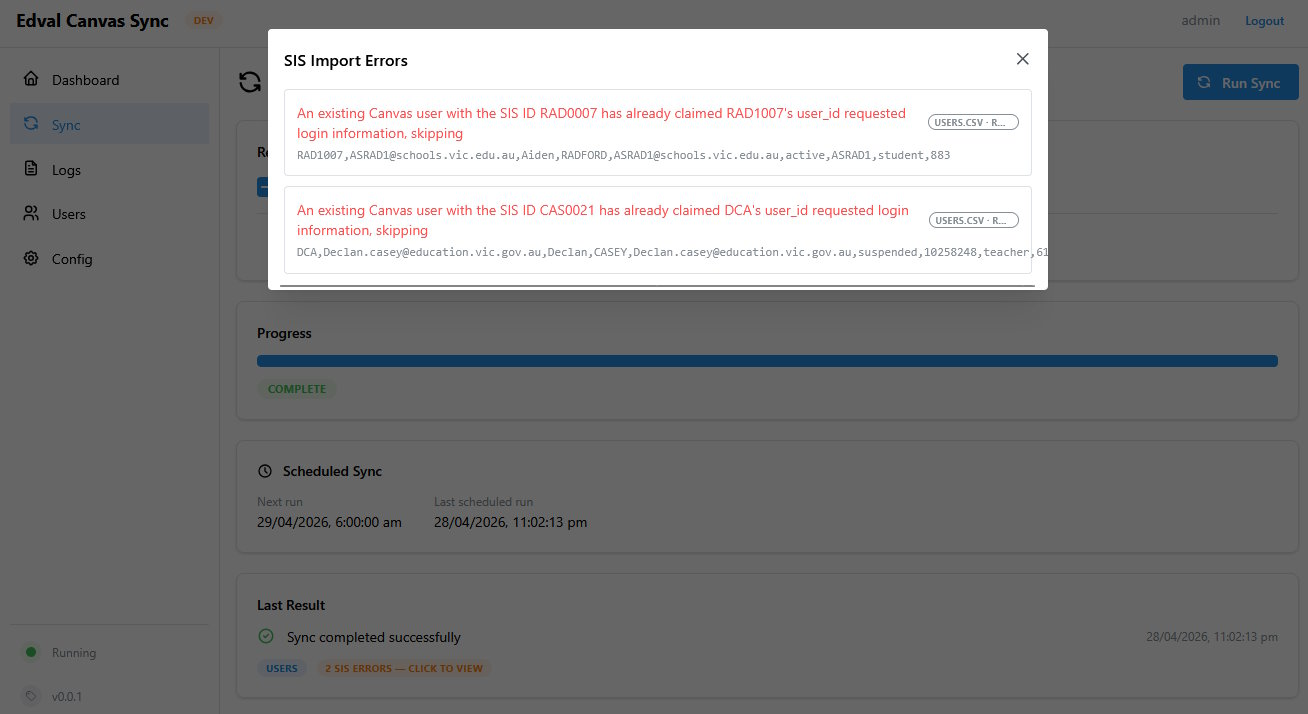
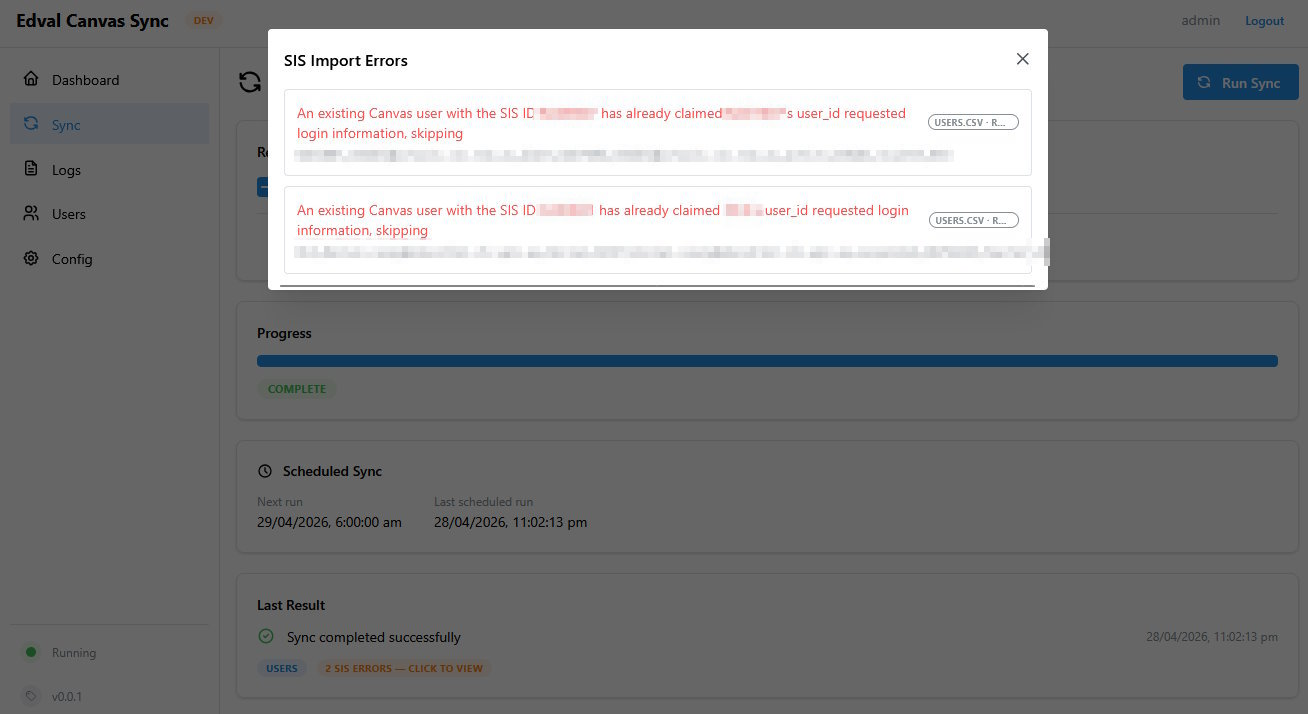
add github link to edval-canvas-bridge

diff --git a/src/content/projects/edval-canvas-bridge.md b/src/content/projects/edval-canvas-bridge.md
@@ -5,6 +5,8 @@ date: 2026
 status: Active
 hero: /img/edval-canvas-bridge/hero.jpg
 skills: [typescript, react, rest, api, gui, cli, automation]
+links:
+  repo: https://github.com/mattkrins/edval-canvas-bridge
 gallery:
   - src: /img/edval-canvas-bridge/dashboard.jpg
     desc: Admin dashboard
